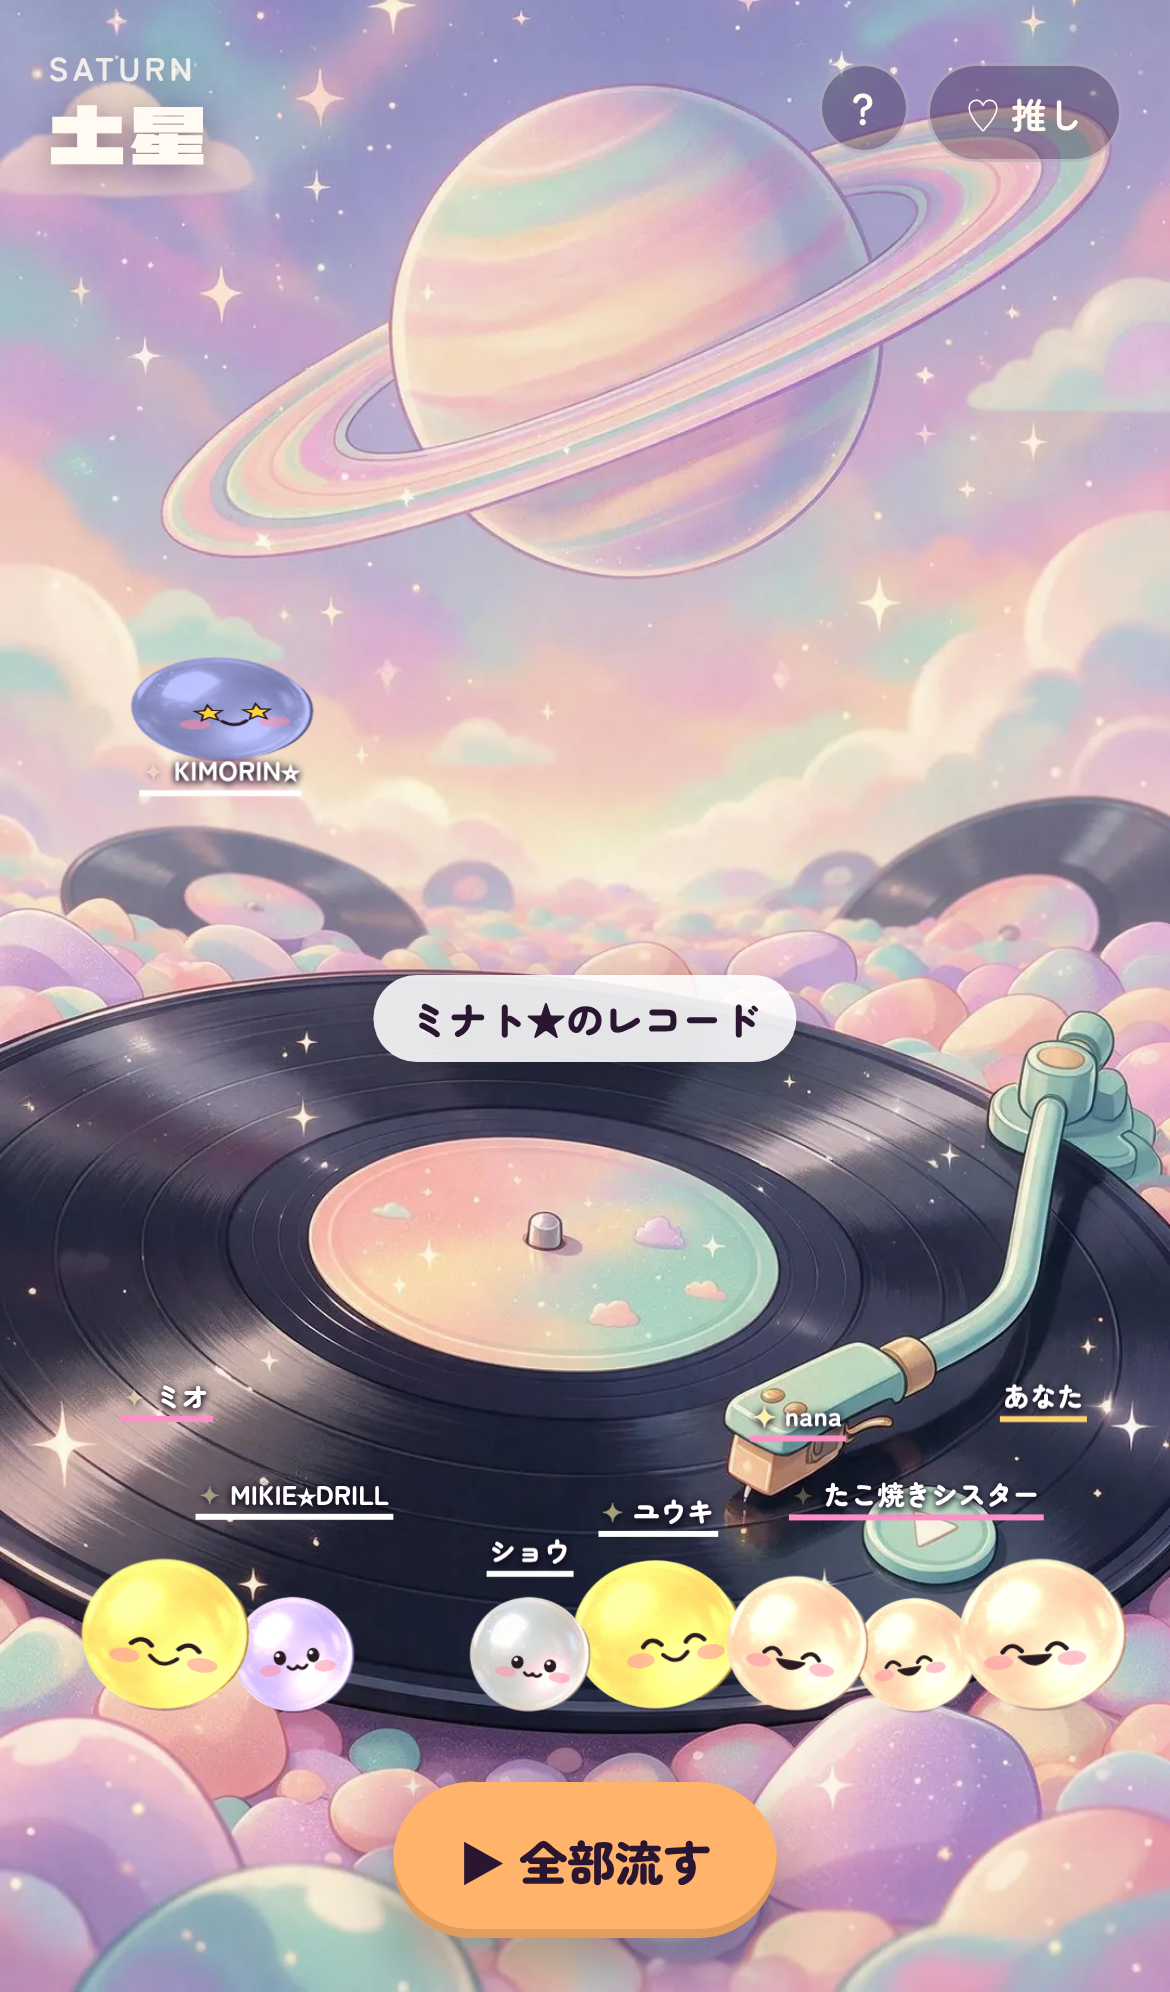
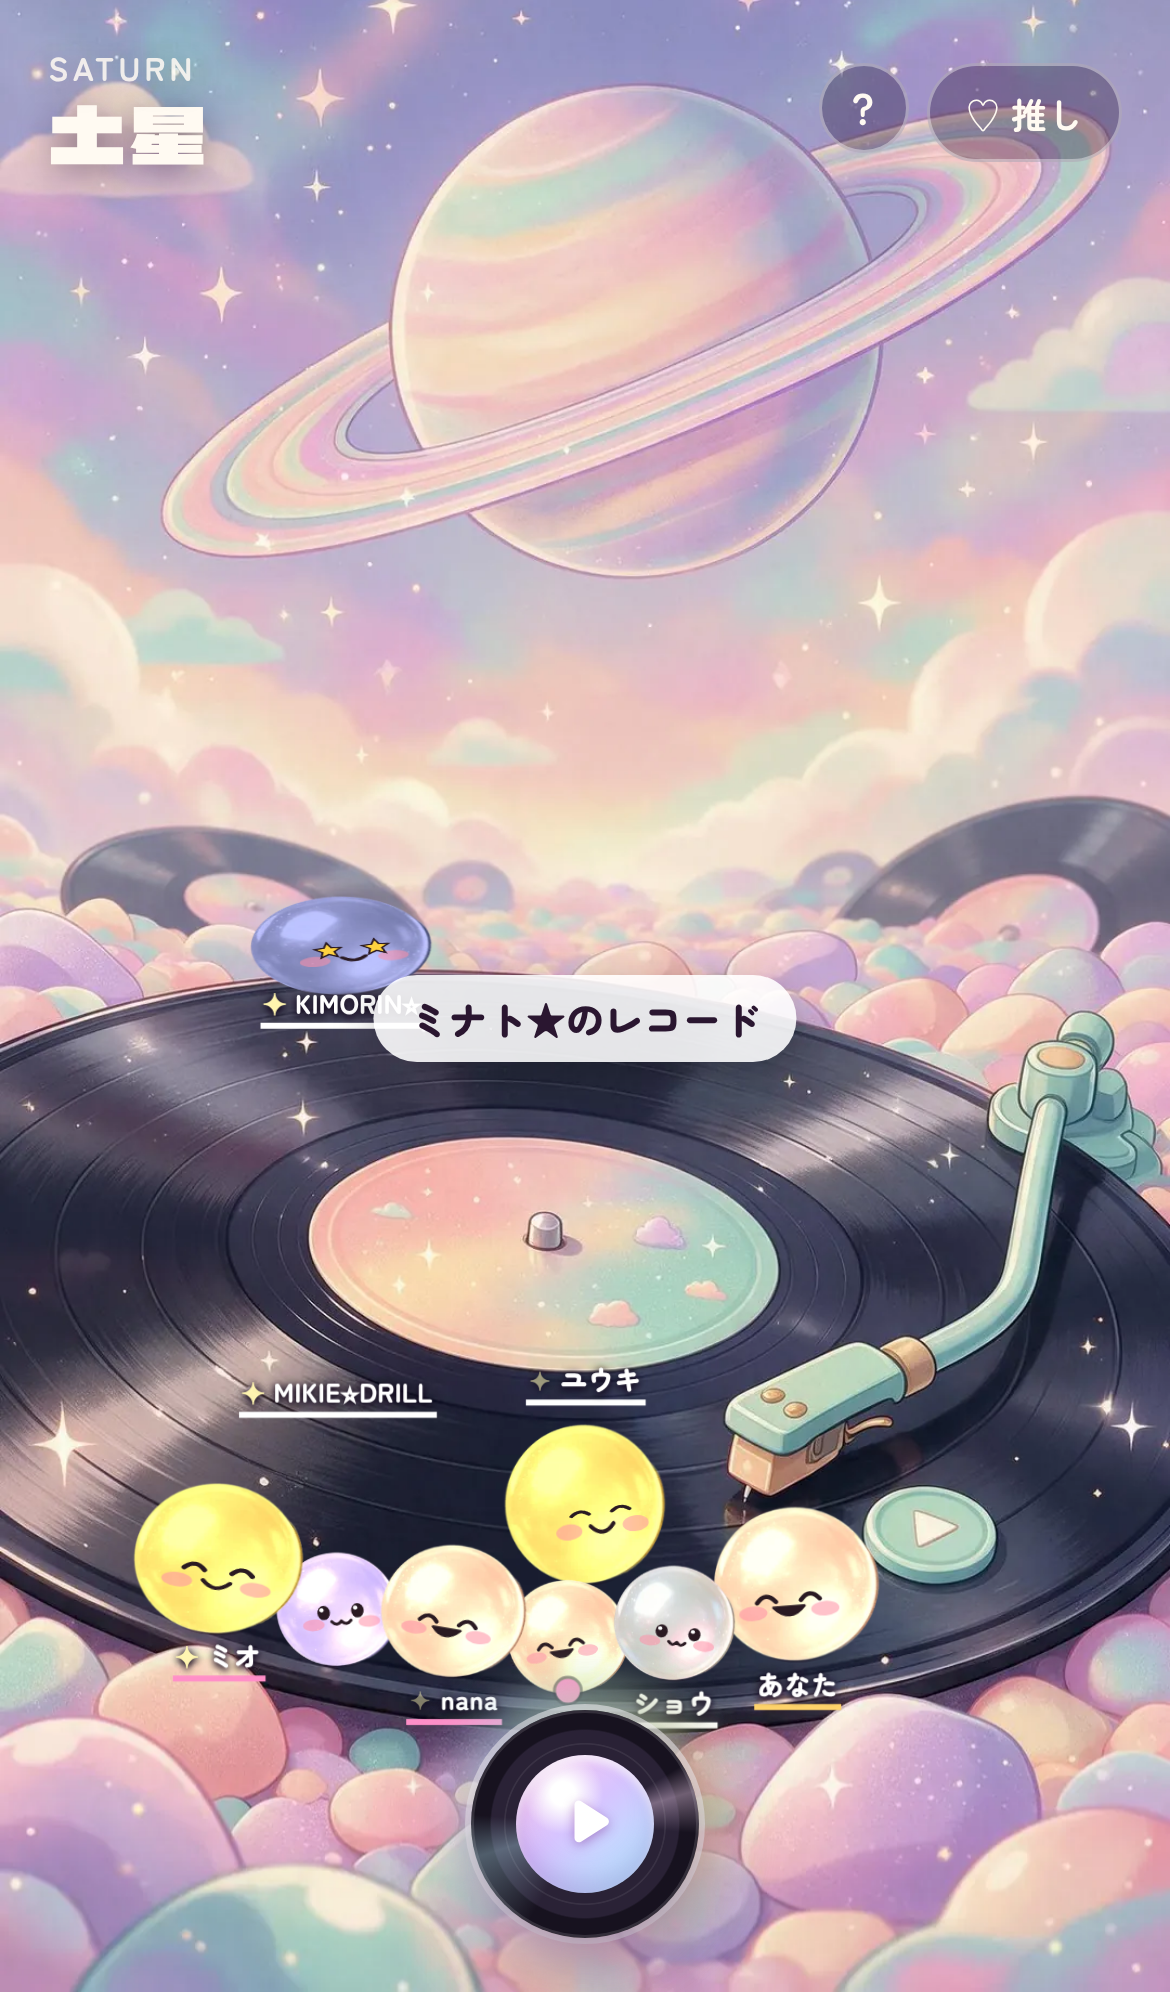
WIP snapshot (planet home agent in progress, not released)
Claude-Session: https://claude.ai/code/session_01VLiVxXYEkJP9Xt5cBFE8CF

diff --git a/apps/web/components/planetHome/SaturnBallScene.tsx b/apps/web/components/planetHome/SaturnBallScene.tsx
@@ -118,9 +118,6 @@ export function SaturnBallScene({ cfg, view, rolling, playingId, spinning, bpm, 
   const tags = useRef(new Map<string, HTMLDivElement>());
   const bubbles = useRef(new Map<string, HTMLDivElement>());
   const touched = useRef<string | null>(null);
-  const freshIds = useRef(new Set<string>());
-  const plateW = useRef(new Map<string, number>());
-  const plateHt = useRef(0);
   const lastDown = useRef<{ x: number; y: number }>({ x: 0, y: 0 });
   const hold = useRef<{ timer: ReturnType<typeof setTimeout> | null; x: number; y: number; fired: boolean }>({ timer: null, x: 0, y: 0, fired: false });
   const live = useRef({ onItem, onHeard, onHold, rolling });
@@ -128,7 +125,6 @@ export function SaturnBallScene({ cfg, view, rolling, playingId, spinning, bpm, 
 
   useEffect(() => {
     if (rolling.length) setHadAny(true);
-    freshIds.current = new Set(rolling.filter((w) => w.fresh).map((w) => w.id));
   }, [rolling]);
 
   const outIds = useMemo(() => new Set(outs.map((o) => o.w.id)), [outs]);
@@ -294,7 +290,7 @@ export function SaturnBallScene({ cfg, view, rolling, playingId, spinning, bpm, 
     return () => clearInterval(t);
   }, [finish]);
 
-  // every frame: the name plates, laid out so none covers another plate, another ball, a mini figure, its words or the dock
+  // every frame: the words kept on the screen, and your own ball's name, clear of the balls, mini figures and words
   const onFrame = useCallback((get: (id: string) => Ball | undefined) => {
     const { W, H } = size();
     const left = FACE.x0 * W;
@@ -313,51 +309,28 @@ export function SaturnBallScene({ cfg, view, rolling, playingId, spinning, bpm, 
         boxes.push({ x0: bx - half - 3, x1: bx + half + 3, y0: by - el.offsetHeight - 3, y1: by + 3 });
       }
     }
-    const balls: { id: string; b: Ball }[] = [];
-    for (const id of tags.current.keys()) {
+    // M-R271: only your own kororin has its name under it (the others' names are in their bubbles when they pop)
+    for (const [id, el] of tags.current) {
       const b = get(id);
-      if (b) balls.push({ id, b });
-    }
-    const faces = balls.map(({ id, b }) => ({ id, x: b.x, y: b.y, r: b.R * 0.9 }));
-    const rank = (id: string) => (id === touched.current ? 0 : freshIds.current.has(id) ? 1 : 2);
-    balls.sort((p, q) => rank(p.id) - rank(q.id));
-    const bottomLimit = H * 0.875;
-    const hitsFace = (x0: number, x1: number, y0: number, y1: number, own: string) =>
-      faces.some((f) => {
-        if (f.id === own) return false;
-        const cx = Math.max(x0, Math.min(f.x, x1));
-        const cy = Math.max(y0, Math.min(f.y, y1));
-        return Math.hypot(cx - f.x, cy - f.y) < f.r;
+      if (!b) continue;
+      const faces = live.current.rolling.flatMap((w) => {
+        const q = w.id === id ? undefined : get(w.id);
+        return q ? [{ x: q.x, y: q.y, r: q.R * 0.9 }] : [];
       });
-    const ph = Math.max(PLATE_H, plateHt.current);
-    for (const { id, b } of balls) {
-      const el = tags.current.get(id)!;
-      const w = plateW.current.get(id) ?? 64;
-      const base = b.y + b.R * b.sy + 2;
-      let at: number | null = null;
-      const above = b.y - b.R * b.sy - ph - 3;
-      // below the ball (stepping down, never into the dock), else above it, stepping up so neighbours' plates stagger
-      // kept fully on the screen (a ball by the edge has its plate pulled in)
+      const w = el.offsetWidth || 40;
+      const ph = Math.max(PLATE_H, el.offsetHeight);
       const cx = Math.max(w / 2 + 4 - left, Math.min(W - left - w / 2 - 4, b.x));
-      for (const y0 of [base, base + 10, above, above - (ph + 2), above - 2 * (ph + 2)]) {
+      const base = b.y + b.R * b.sy + 2;
+      const above = b.y - b.R * b.sy - ph - 3;
+      const free = (y0: number) => {
         const box = { x0: cx - w / 2 - 2, x1: cx + w / 2 + 2, y0: y0 - 1, y1: y0 + ph + 1 };
-        if (box.y1 > bottomLimit) continue;
-        if (boxes.some((o) => !(box.x1 <= o.x0 || box.x0 >= o.x1 || box.y1 <= o.y0 || box.y0 >= o.y1))) continue;
-        if (hitsFace(box.x0, box.x1, box.y0, box.y1, id)) continue;
-        boxes.push(box);
-        at = y0;
-        break;
-      }
-      const dot = at === null;
-      if (el.dataset.dot !== String(dot)) {
-        el.dataset.dot = String(dot);
-        el.classList.toggle(s.puniDot, dot);
-      }
-      if (!dot && !plateW.current.has(id) && el.offsetWidth) {
-        plateW.current.set(id, el.offsetWidth);
-        plateHt.current = Math.max(plateHt.current, el.offsetHeight);
-      }
-      el.style.transform = dot ? `translate3d(${b.x.toFixed(1)}px, ${(b.y + b.R * b.sy - 5).toFixed(1)}px, 0) translateX(-50%)` : `translate3d(${cx.toFixed(1)}px, ${at!.toFixed(1)}px, 0) translateX(-50%)`;
+        if (box.y1 > H * 0.875) return false;
+        if (boxes.some((o) => !(box.x1 <= o.x0 || box.x0 >= o.x1 || box.y1 <= o.y0 || box.y0 >= o.y1))) return false;
+        return !faces.some((f) => Math.hypot(Math.max(box.x0, Math.min(f.x, box.x1)) - f.x, Math.max(box.y0, Math.min(f.y, box.y1)) - f.y) < f.r);
+      };
+      // under it; else above it; else (crowded) under it all the same
+      const at = [base, base + 10, above, above - (ph + 2)].find(free) ?? base;
+      el.style.transform = `translate3d(${cx.toFixed(1)}px, ${at.toFixed(1)}px, 0) translateX(-50%)`;
       // for the review's overlap check: where this ball is
       el.dataset.face = `${b.x.toFixed(0)},${b.y.toFixed(0)},${(b.R * 0.9).toFixed(0)}`;
     }
@@ -487,7 +460,9 @@ export function SaturnBallScene({ cfg, view, rolling, playingId, spinning, bpm, 
         {/* M-R268: the stones in front of the balls, placed exactly as the backdrop (this face starts 4% in) */}
         {isSaturnArt && <div className={s.fg} style={{ backgroundImage: `url(${FOREGROUND})`, left: `${(-FACE.x0 / (FACE.x1 - FACE.x0)) * 100}%`, width: `${100 / (FACE.x1 - FACE.x0)}%` }} aria-hidden data-testid="foreground" />}
         {!reduced &&
-          shown.map((w) => (
+          shown
+            .filter((w) => w.rel === 'own')
+            .map((w) => (
             <div
               key={w.id}
               ref={(el) => {
@@ -495,9 +470,7 @@ export function SaturnBallScene({ cfg, view, rolling, playingId, spinning, bpm, 
                 else tags.current.delete(w.id);
               }}
               className={s.puniTag}
-              style={{ '--c': tagColour(w) } as CSSProperties}
-              data-rel={w.rel}
-              data-testid="rolling"
+              data-testid="own-name"
             >
               {w.fresh && <span className={s.spark}>✦</span>}
               {nameOf(w)}

diff --git a/apps/web/lib/planetHome/model.test.ts b/apps/web/lib/planetHome/model.test.ts
@@ -102,6 +102,17 @@ describe('星のホーム stage', () => {
     expect(rollingOf(s, all, now)).toEqual([]);
     expect(groovesOf(s, []).length).toBe(16);
   });
+  it('M-R271: never more than one of your own kororins in the line — only the first (newest) counts, the rest are in the grooves', () => {
+    const own = [w('mine-1', 'own', 0.5), w('mine-2', 'own', 1), w('mine-3', 'own', 2)];
+    const s = stageOf(view({ own, around: [w('a0', 'dachi', 0.7), w('a1', 'oshi', 3)] }), { now });
+    const roll = rollingOf(s, new Set(), now);
+    expect(roll.filter((x) => x.rel === 'own').map((x) => x.id)).toEqual(['mine-1']);
+    expect(roll.map((x) => x.id)).toEqual(['mine-1', 'a0', 'a1']);
+    const g = groovesOf(s, roll).map((x) => x.id);
+    expect(g).toEqual(expect.arrayContaining(['mine-2', 'mine-3']));
+    // heard the first: no other of yours comes into the line
+    expect(rollingOf(s, new Set(['mine-1']), now).filter((x) => x.rel === 'own')).toEqual([]);
+  });
   it('M-R263: one big button per planet — Saturn 〔▶ 全部流す〕 (〔■ 止める〕 while it plays), every other 〔中に入る〕; no 〔＋ 飛ばす〕', () => {
     for (const p of HOME_PLANETS) {
       const b = dockButtons(PLANET_HOMES[p], false);

diff --git a/apps/web/lib/planetHome/model.ts b/apps/web/lib/planetHome/model.ts
@@ -101,9 +101,12 @@ export const ROLL_MAX = 200;
  */
 export function rollingOf(stage: Stage, heard: ReadonlySet<string>, now: number = Date.now(), max = ROLL_MAX): StageItem[] {
   const recent = (w: StageItem) => w.rel !== 'own' || now - Date.parse(w.flownAt) < PLANET_FLY_MS;
-  return [...stage.around.filter((w) => !w.leaving), ...stage.own]
+  // M-R271: at most one of your own in the line — only the first (your newest) counts; the others are in the grooves
+  const newest = (a: StageItem, b: StageItem) => Date.parse(b.flownAt) - Date.parse(a.flownAt);
+  const mine = stage.own.filter(recent).sort(newest)[0];
+  return [...stage.around.filter((w) => !w.leaving), ...(mine ? [mine] : [])]
     .filter((w) => recent(w) && !heard.has(w.id))
-    .sort((a, b) => Date.parse(b.flownAt) - Date.parse(a.flownAt))
+    .sort(newest)
     .slice(0, max);
 }
 
